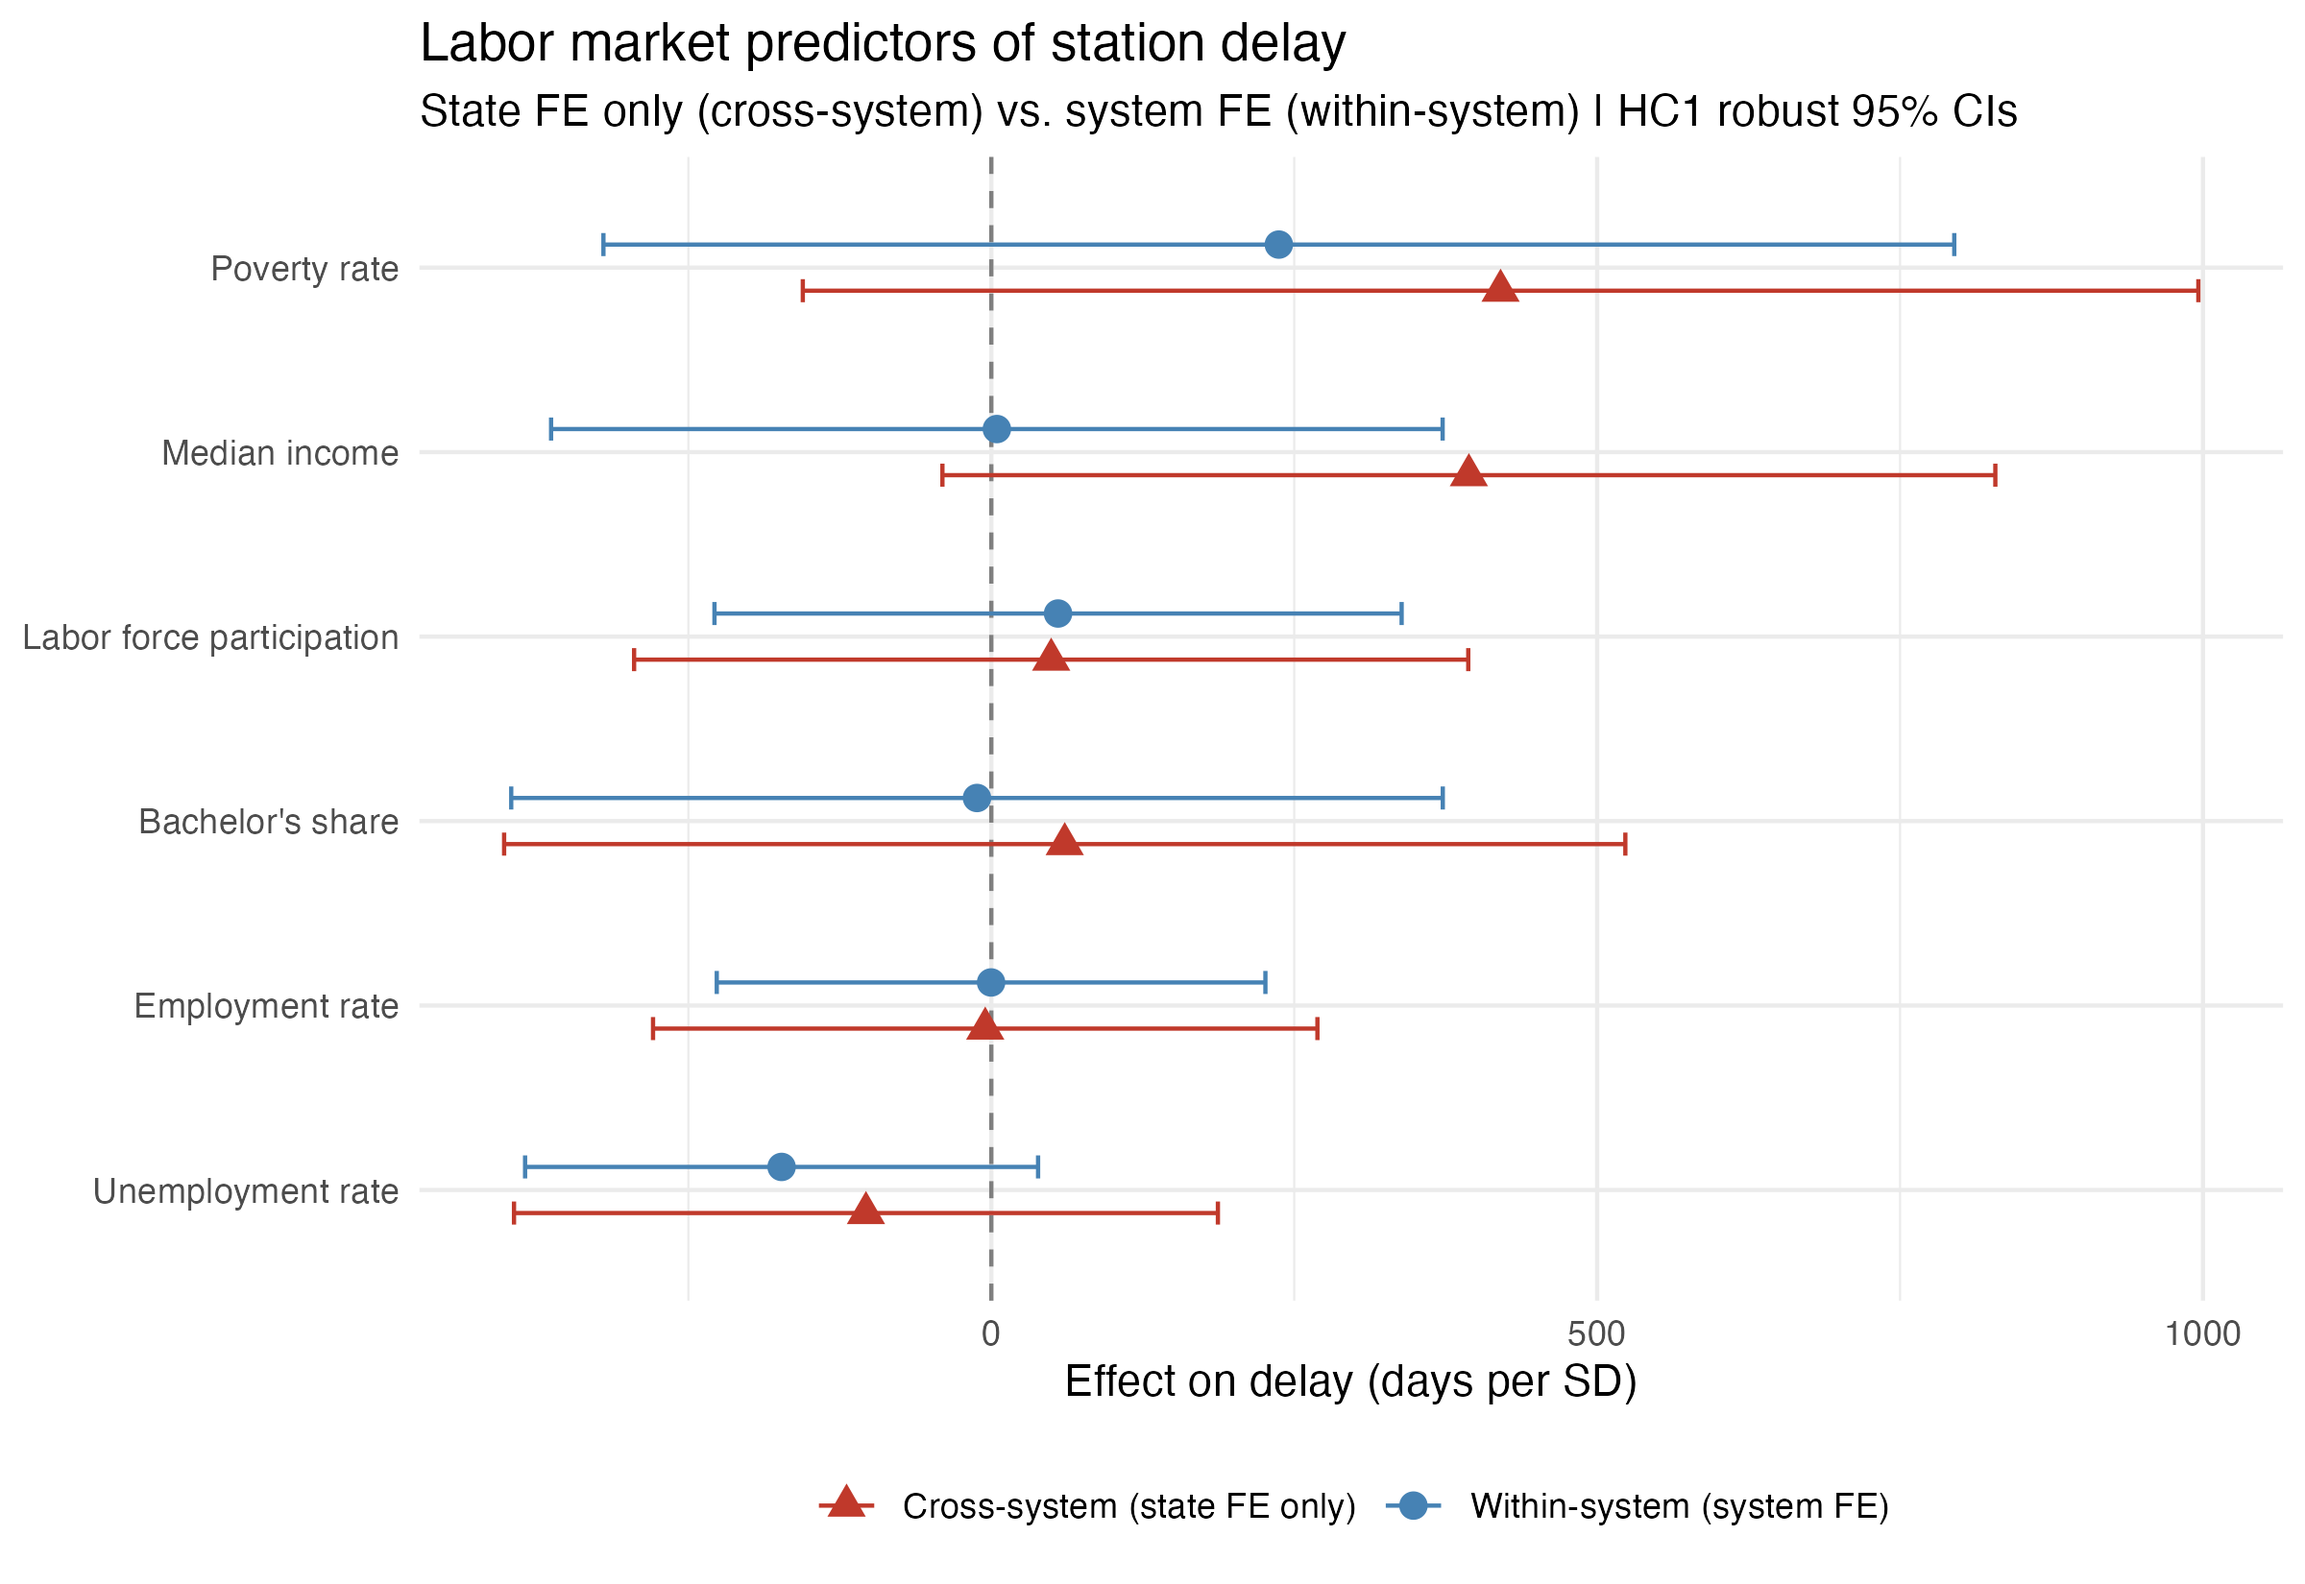
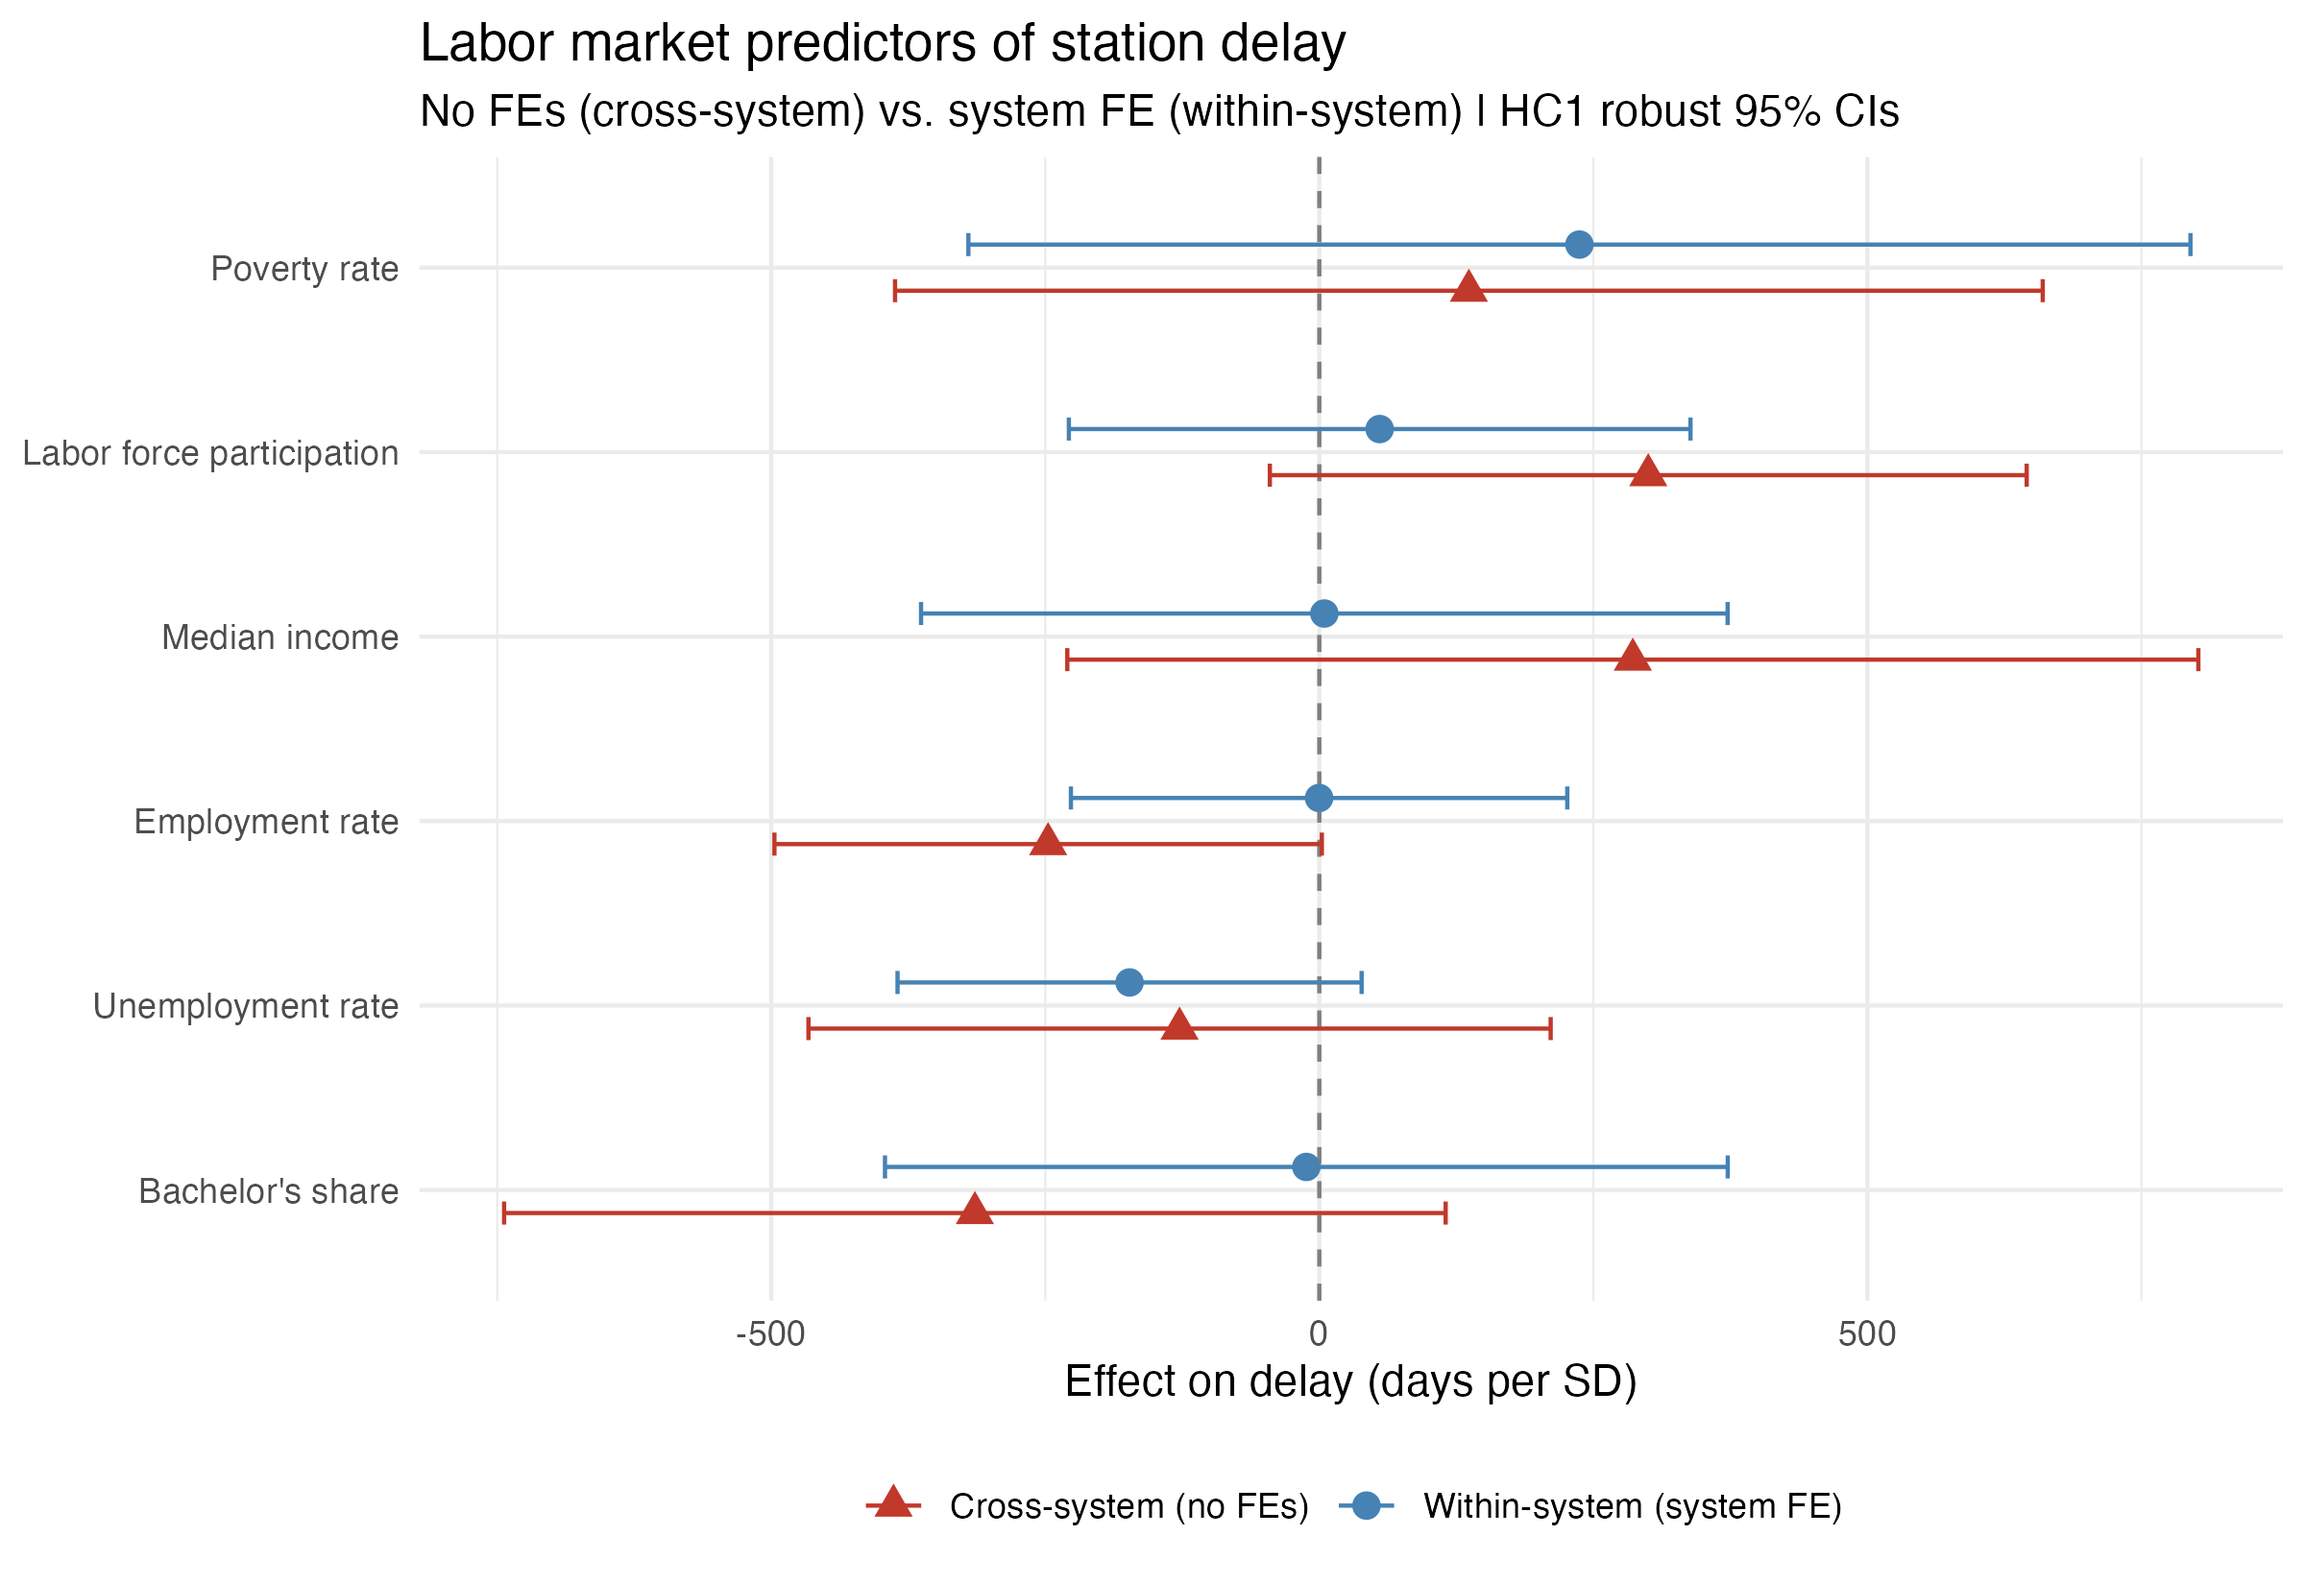
Removing state FEs

diff --git a/3_output/3_tables/3_delay_robustness/delay_labormarket_cross_system.tex b/3_output/3_tables/3_delay_robustness/delay_labormarket_cross_system.tex
@@ -73,3 +73,40 @@
 \end{table}
 
 
+
+\begin{table}[htbp]
+   \caption{Delay (days) on cross-system labor market characteristics}
+   \centering
+   \begin{tabular}{lcc}
+      \tabularnewline \midrule \midrule
+      Dependent Variable: & \multicolumn{2}{c}{delay\_days}\\
+                        & Null            & Full \\   
+      Model:            & (1)             & (2)\\  
+      \midrule
+      \emph{Variables}\\
+      Constant          & 2,458.0$^{***}$ & 2,458.0$^{***}$\\   
+                        & (151.1)         & (151.2)\\   
+      Median income     &                 & 286.0\\   
+                        &                 & (259.4)\\   
+      LFP rate          &                 & 300.1$^{*}$\\   
+                        &                 & (173.6)\\   
+      Unemployment rate &                 & -127.5\\   
+                        &                 & (170.2)\\   
+      Employment rate   &                 & -247.4$^{*}$\\   
+                        &                 & (125.6)\\   
+      Bachelor's share  &                 & -314.2\\   
+                        &                 & (216.0)\\   
+      Poverty rate      &                 & 136.5\\   
+                        &                 & (263.3)\\   
+      \midrule
+      \emph{Fit statistics}\\
+      Observations      & 91              & 91\\  
+      R$^2$             &                 & 0.06631\\  
+      Adjusted R$^2$    &                 & -0.00038\\  
+      \midrule \midrule
+      \multicolumn{3}{l}{\emph{Heteroskedasticity-robust standard-errors in parentheses}}\\
+      \multicolumn{3}{l}{\emph{Signif. Codes: ***: 0.01, **: 0.05, *: 0.1}}\\
+   \end{tabular}
+\end{table}
+
+

diff --git a/3_output/3_tables/3_delay_robustness/delay_labormarket_within_system.tex b/3_output/3_tables/3_delay_robustness/delay_labormarket_within_system.tex
@@ -72,3 +72,40 @@
 \end{table}
 
 
+
+\begin{table}[htbp]
+   \caption{Delay (days) on within-system labor market characteristics}
+   \centering
+   \begin{tabular}{lcc}
+      \tabularnewline \midrule \midrule
+      Dependent Variable: & \multicolumn{2}{c}{delay\_days}\\
+                        & Null    & Full \\   
+      Model:            & (1)     & (2)\\  
+      \midrule
+      \emph{Variables}\\
+      Median income     &         & 4.582\\   
+                        &         & (184.7)\\   
+      LFP rate          &         & 55.08\\   
+                        &         & (142.3)\\   
+      Unemployment rate &         & -173.1\\   
+                        &         & (106.3)\\   
+      Employment rate   &         & -0.1869\\   
+                        &         & (113.6)\\   
+      Bachelor's share  &         & -11.80\\   
+                        &         & (193.0)\\   
+      Poverty rate      &         & 237.3\\   
+                        &         & (279.8)\\   
+      \midrule
+      \emph{Fixed-effects}\\
+      system            & Yes     & Yes\\  
+      \midrule
+      \emph{Fit statistics}\\
+      Observations      & 91      & 91\\  
+      R$^2$             & 0.56382 & 0.58834\\  
+      Within R$^2$      &         & 0.05623\\  
+      \midrule \midrule
+      \multicolumn{3}{l}{\emph{Signif. Codes: ***: 0.01, **: 0.05, *: 0.1}}\\
+   \end{tabular}
+\end{table}
+
+

diff --git a/3_output/3_tables/3_delay_robustness/delay_income_state_system_fe.tex b/3_output/3_tables/3_delay_robustness/delay_income_state_system_fe.tex
@@ -54,3 +54,31 @@
 \end{table}
 
 
+
+\begin{table}[htbp]
+   \caption{Delay (days) regressed on neighborhood income}
+   \centering
+   \begin{tabular}{lcc}
+      \tabularnewline \midrule \midrule
+      Dependent Variable: & \multicolumn{2}{c}{delay\_days}\\
+                         & No covariates & Income \\   
+      Model:             & (1)           & (2)\\  
+      \midrule
+      \emph{Variables}\\
+      Median income (SD) &               & -51.24\\   
+                         &               & (202.5)\\   
+      \midrule
+      \emph{Fixed-effects}\\
+      state              & Yes           & Yes\\  
+      system             & Yes           & Yes\\  
+      \midrule
+      \emph{Fit statistics}\\
+      Observations       & 91            & 91\\  
+      R$^2$              & 0.56382       & 0.56463\\  
+      Within R$^2$       &               & 0.00186\\  
+      \midrule \midrule
+      \multicolumn{3}{l}{\emph{Signif. Codes: ***: 0.01, **: 0.05, *: 0.1}}\\
+   \end{tabular}
+\end{table}
+
+
